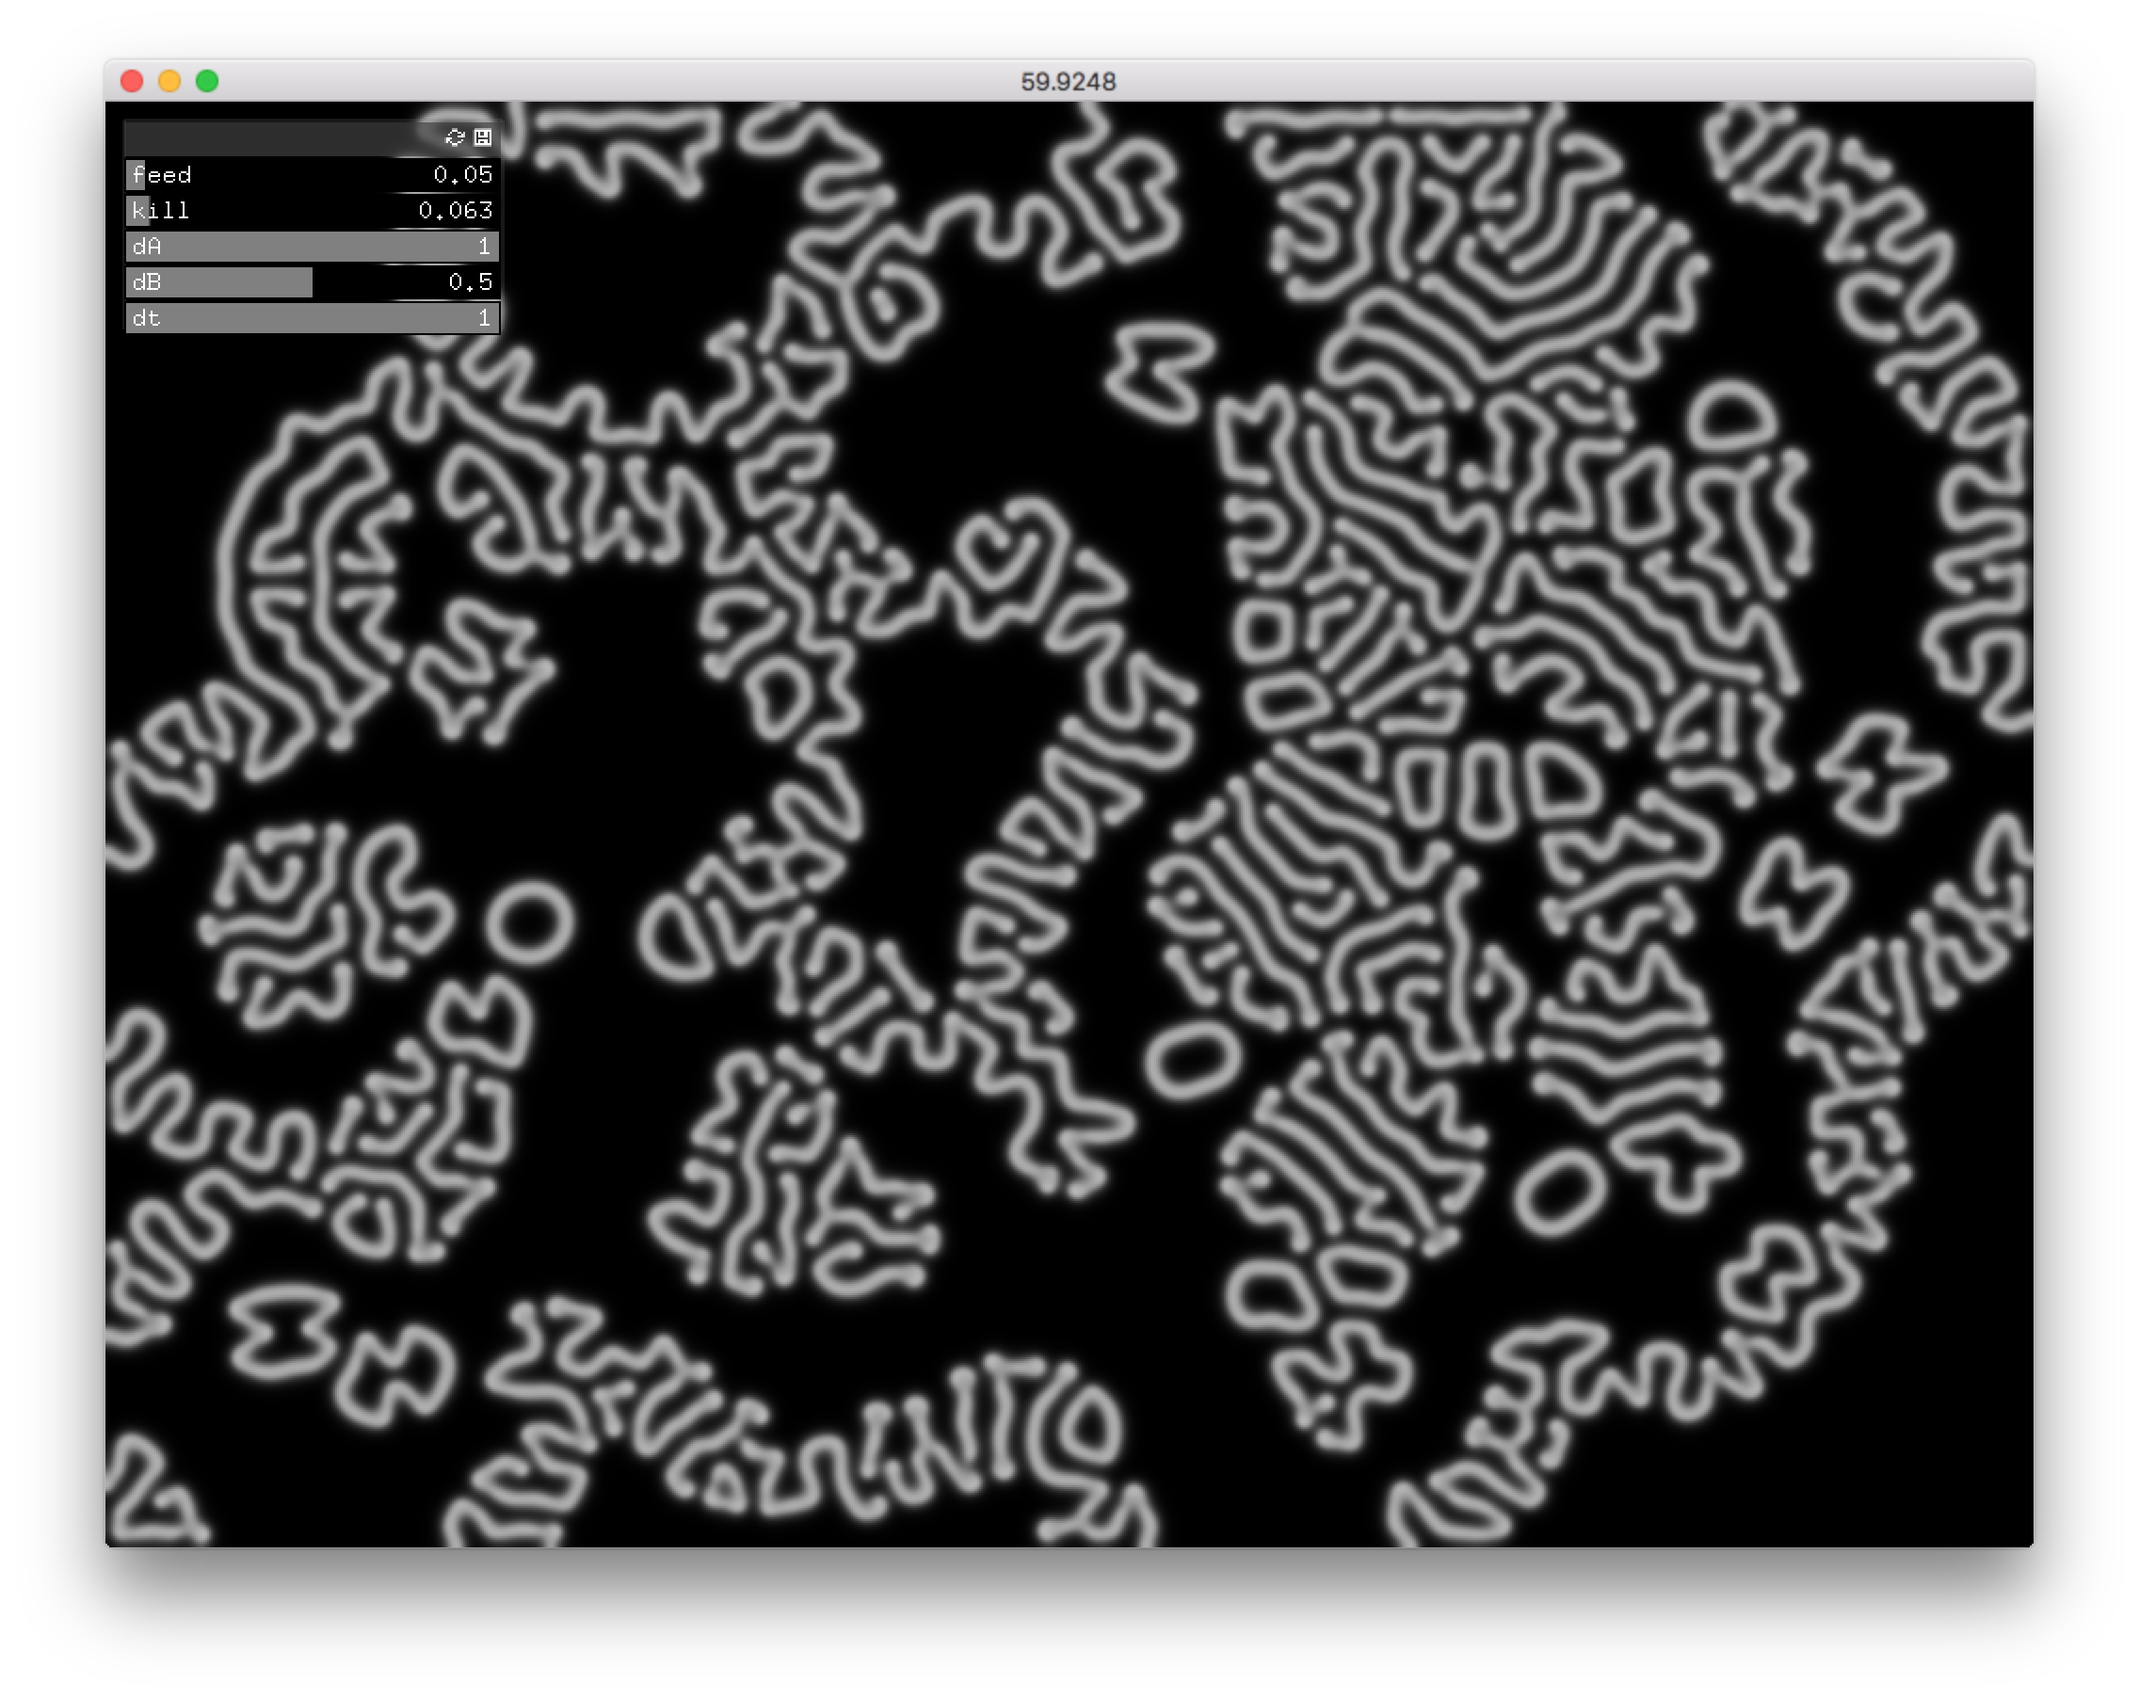
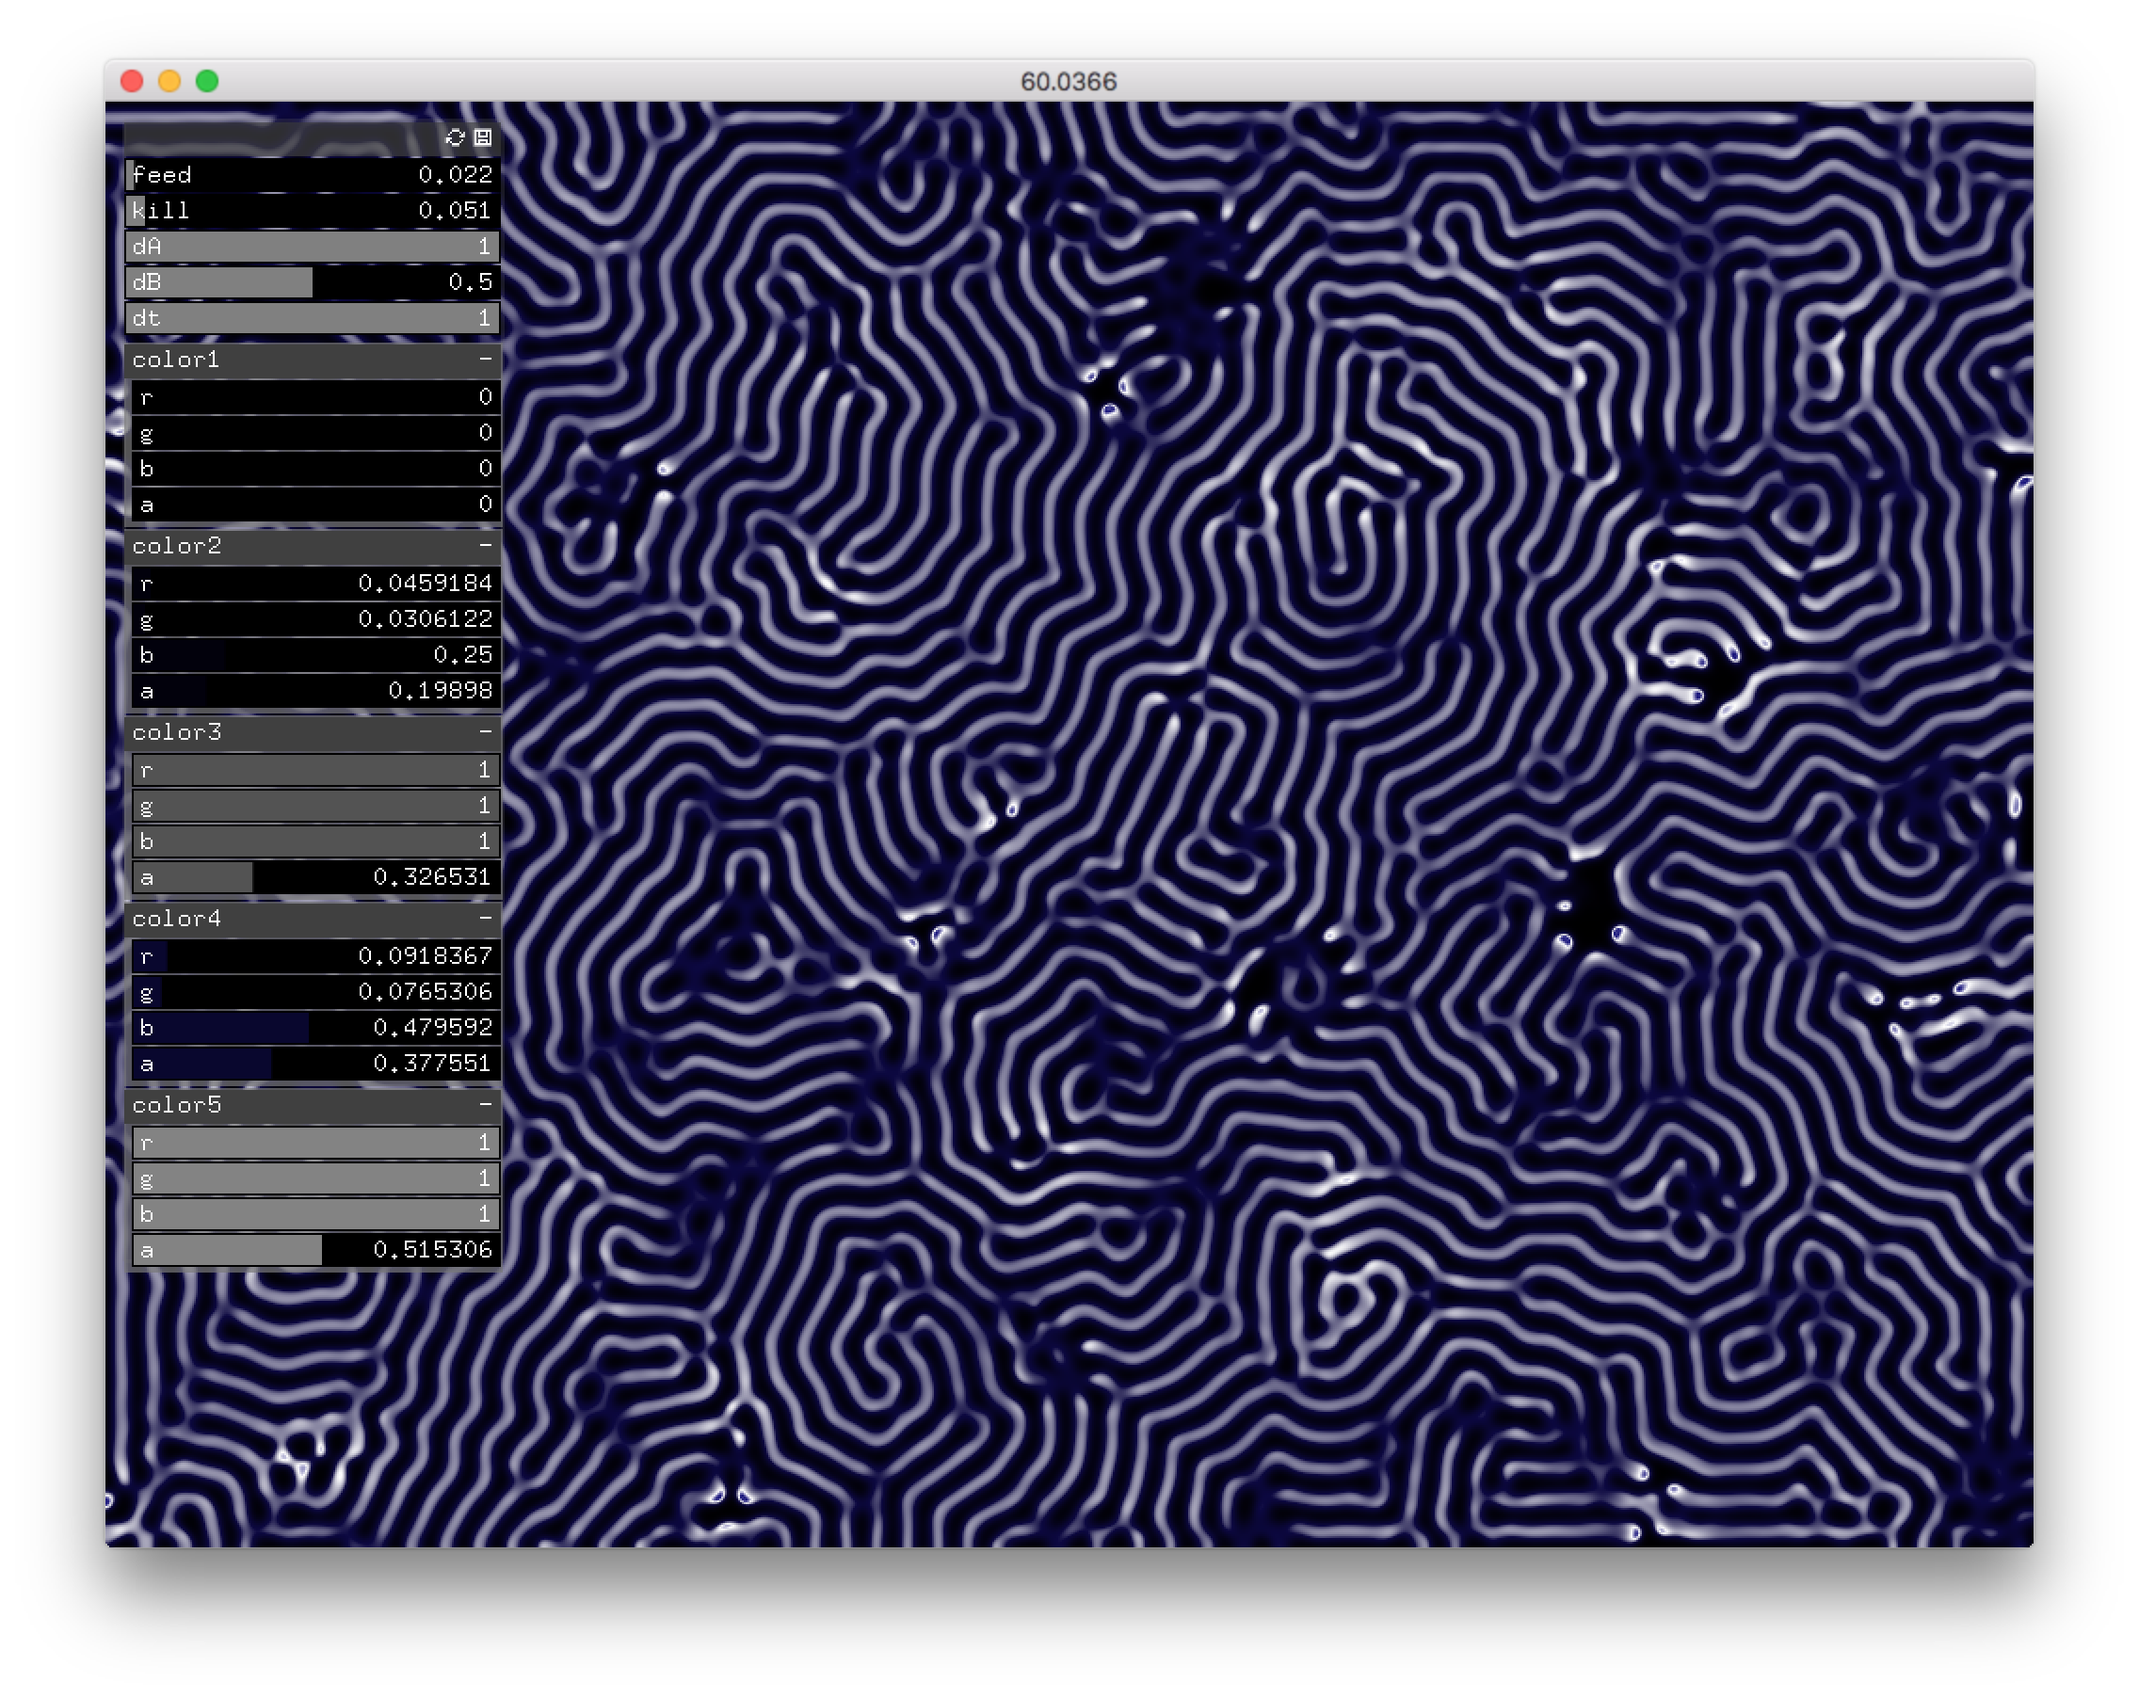
Added color parameters

diff --git a/src/ofApp.cpp b/src/ofApp.cpp
@@ -32,6 +32,11 @@ void ofApp::setup()
     gui.add(dA.set("dA", 1.0, 0.0, 1.0));
     gui.add(dB.set("dB", 0.5, 0.0, 1.0));
     gui.add(dt.set("dt", 1.0, 0.0, 1.0));
+    gui.add(color1.set("color1", ofFloatColor(0.0, 0.0, 0.0, 0.0), ofFloatColor(0.0, 0.0, 0.0, 0.0), ofFloatColor(1.0, 1.0, 1.0, 1.0)));
+    gui.add(color2.set("color2", ofFloatColor(0.0, 1.0, 0.0, 0.2), ofFloatColor(0.0, 0.0, 0.0, 0.0), ofFloatColor(1.0, 1.0, 1.0, 1.0)));
+    gui.add(color3.set("color3", ofFloatColor(1.0, 1.0, 0.0, 0.21), ofFloatColor(0.0, 0.0, 0.0, 0.0), ofFloatColor(1.0, 1.0, 1.0, 1.0)));
+    gui.add(color4.set("color4", ofFloatColor(1.0, 0.0, 0.0, 0.4), ofFloatColor(0.0, 0.0, 0.0, 0.0), ofFloatColor(1.0, 1.0, 1.0, 1.0)));
+    gui.add(color5.set("color5", ofFloatColor(1.0, 1.0, 1.0, 0.6), ofFloatColor(0.0, 0.0, 0.0, 0.0), ofFloatColor(1.0, 1.0, 1.0, 1.0)));
 }
 
 //--------------------------------------------------------------
@@ -48,7 +53,6 @@ void ofApp::update()
     simulateShader.setUniform1f("u_dA", dA);
     simulateShader.setUniform1f("u_dB", dB);
     simulateShader.setUniform1f("u_dt", dt);
-    simulateShader.setUniform2f("u_resolution", w, h);
     pingPong.src->draw(0, 0, w, h);
     simulateShader.end();
     pingPong.dst->end();
@@ -61,6 +65,11 @@ void ofApp::draw()
 {
     renderShader.begin();
     renderShader.setUniformTexture("u_tex", pingPong.dst->getTexture(), 0);
+    renderShader.setUniform4f("color1", color1);
+    renderShader.setUniform4f("color2", color2);
+    renderShader.setUniform4f("color3", color3);
+    renderShader.setUniform4f("color4", color4);
+    renderShader.setUniform4f("color5", color5);
     ofDrawRectangle(0, 0, w, h);
     renderShader.end();
 

diff --git a/src/ofApp.h b/src/ofApp.h
@@ -24,4 +24,9 @@ public:
     ofParameter<float> dA;
     ofParameter<float> dB;
     ofParameter<float> dt;
+    ofParameter<ofFloatColor> color1;
+    ofParameter<ofFloatColor> color2;
+    ofParameter<ofFloatColor> color3;
+    ofParameter<ofFloatColor> color4;
+    ofParameter<ofFloatColor> color5;
 };
